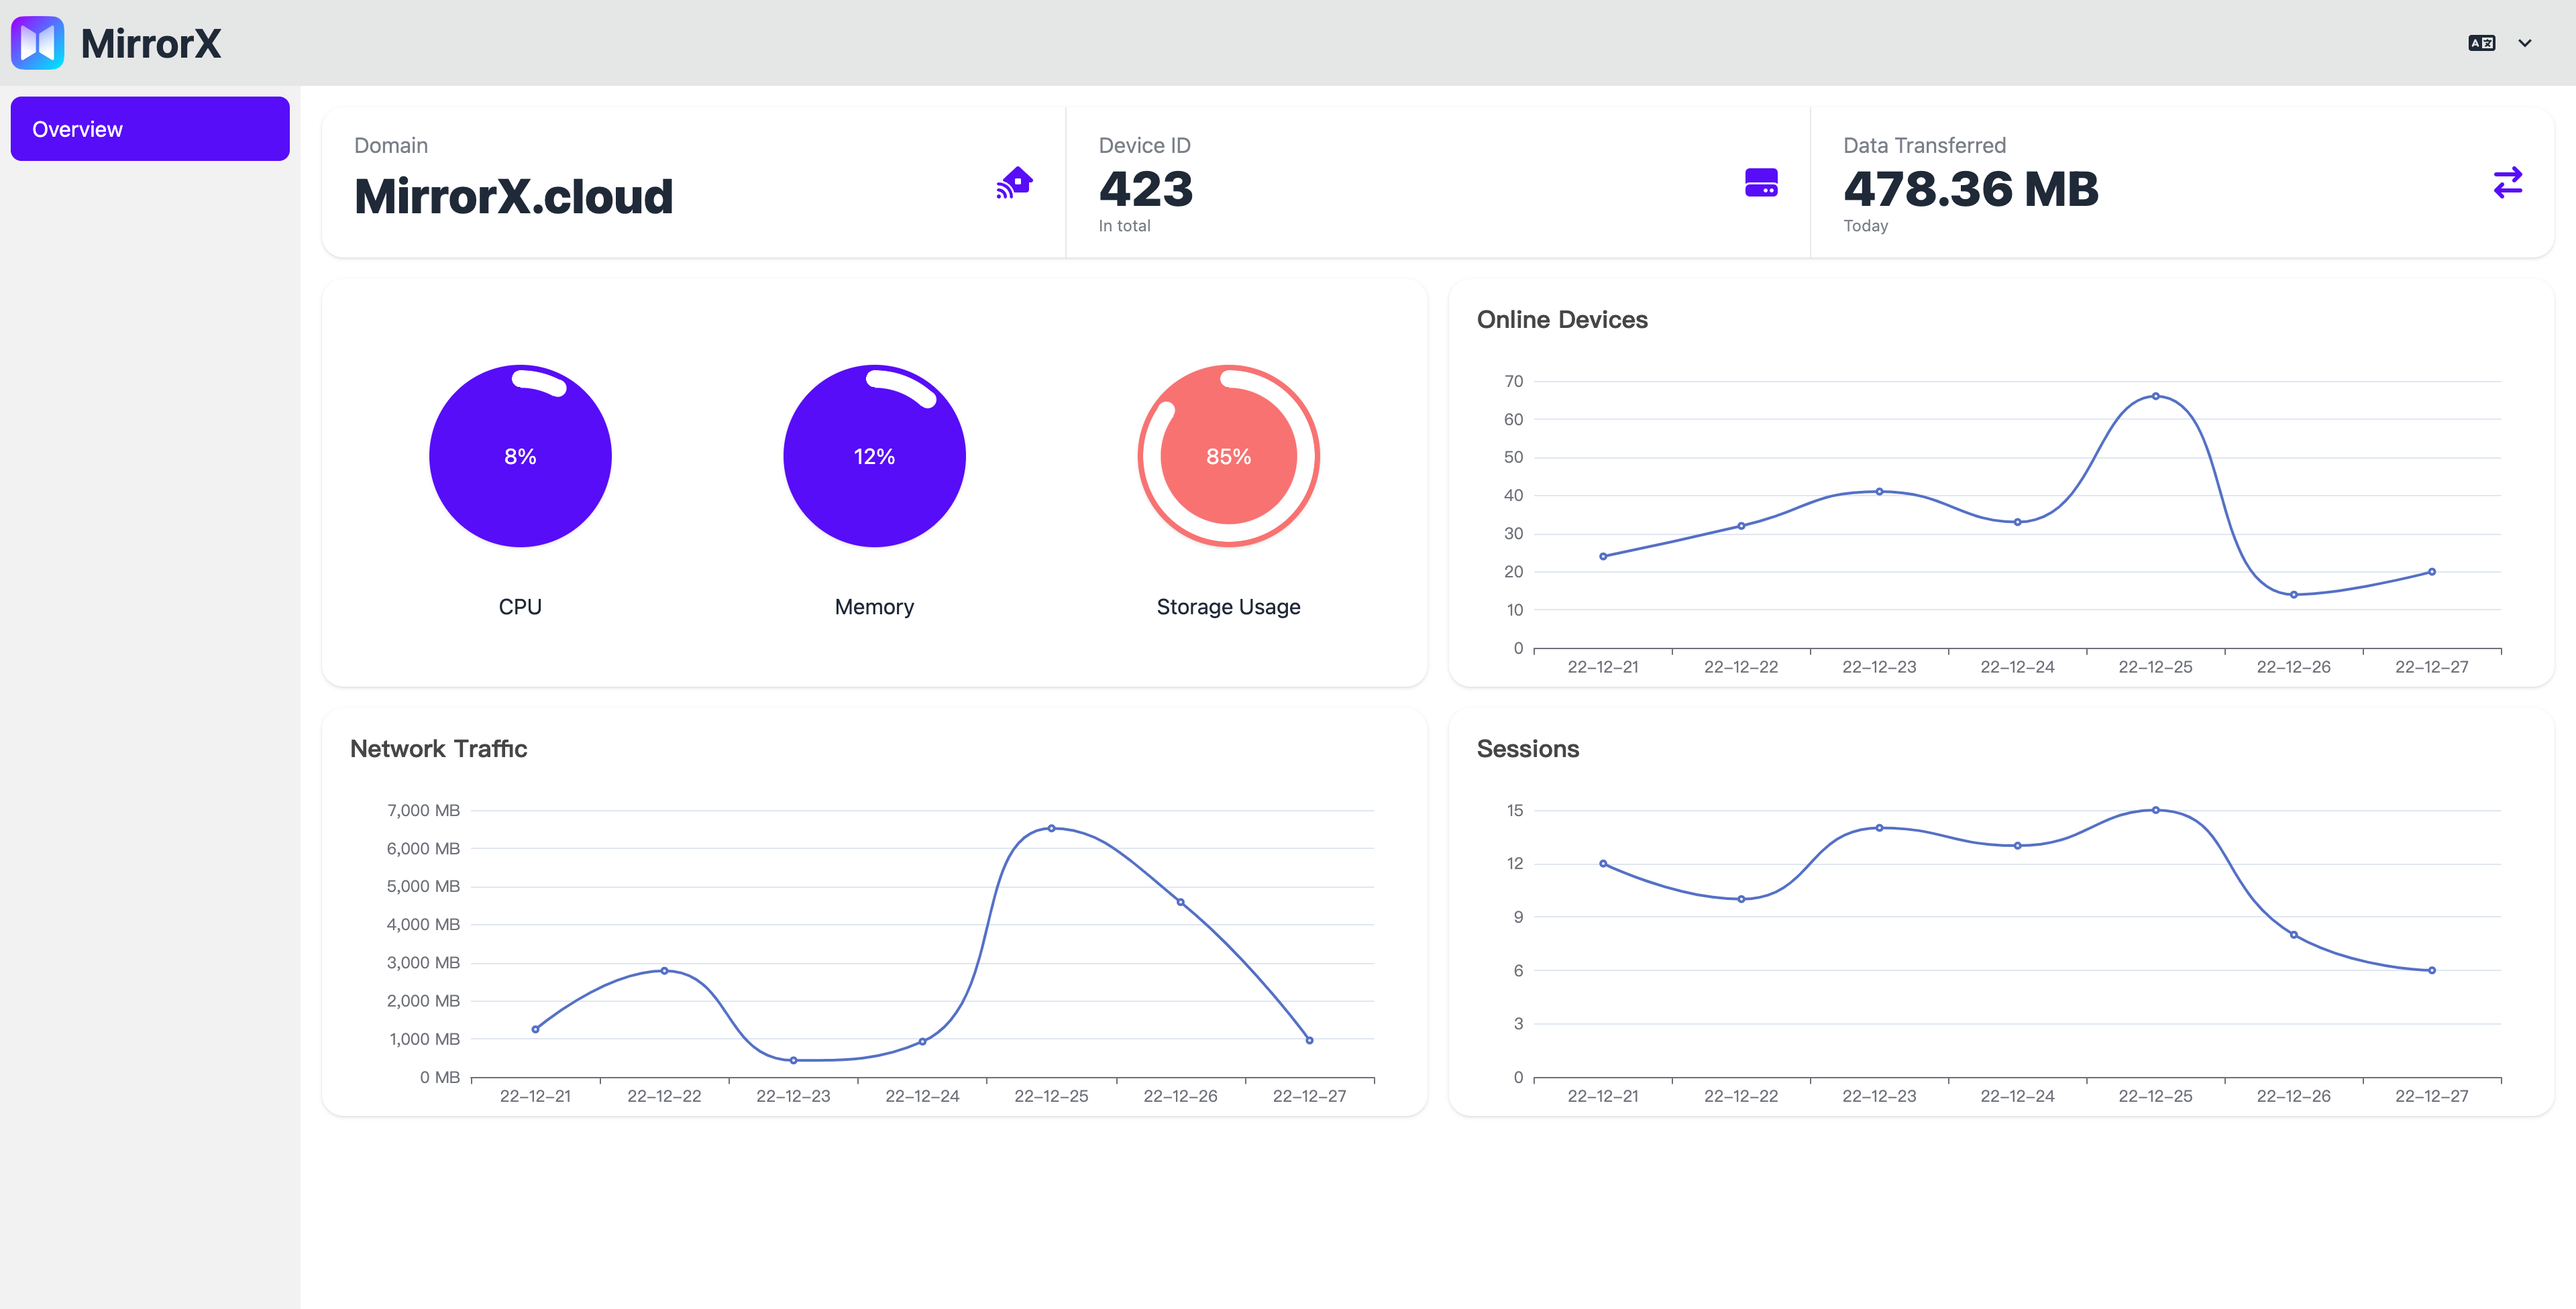
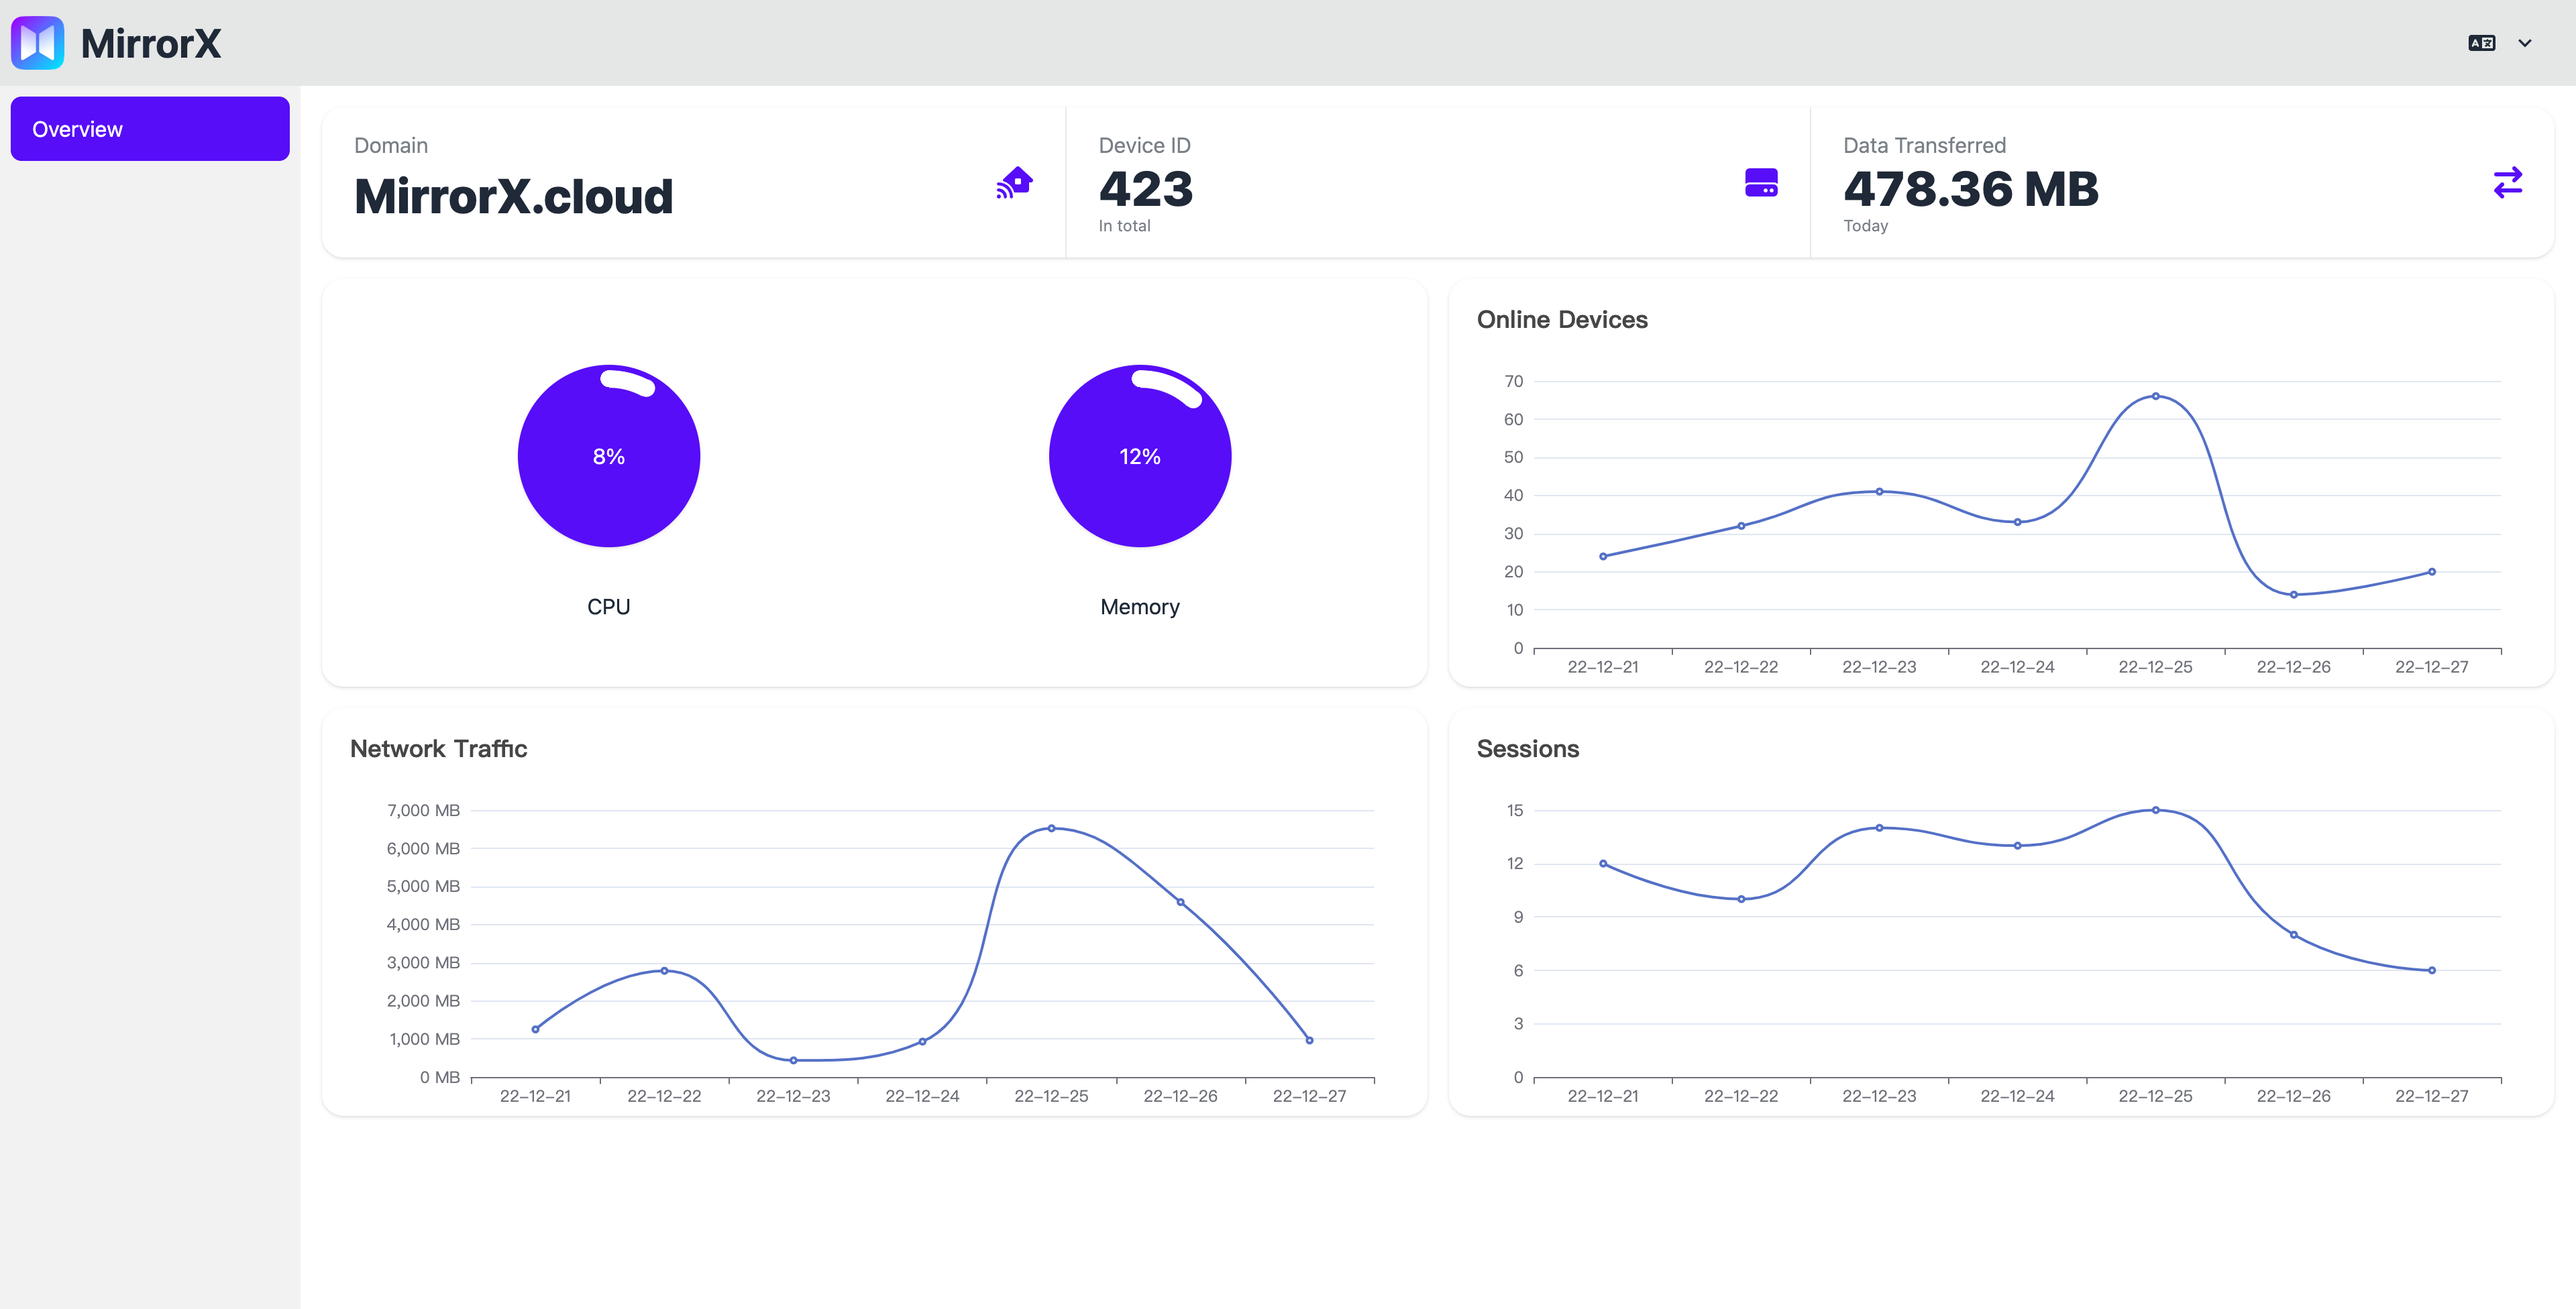
feat: simple dashboard

Changed region(s): [[0.1562, 0.2812, 0.375, 0.4688], [0.4062, 0.2812, 0.5312, 0.4688]]

diff --git a/dashboard/src/routes/overview/+page.svelte b/dashboard/src/routes/overview/+page.svelte
@@ -162,26 +162,6 @@
 				</div>
 				<div>Memory</div>
 			</div>
-
-			<!-- <div class="flex-1 flex flex-col gap-8 items-center justify-center">
-				<div
-					class="radial-progress bg-primary text-primary-content border-4 border-primary shadow"
-					style="--value:2; --size:8rem;"
-				>
-					2%
-				</div>
-				<div>Network Pressure</div>
-			</div> -->
-
-			<div class="flex-1 flex flex-col gap-8 items-center justify-center">
-				<div
-					class="radial-progress bg-error text-primary-content border-4 border-error shadow"
-					style="--value:85; --size:8rem;"
-				>
-					85%
-				</div>
-				<div>Storage Usage</div>
-			</div>
 		</div>
 
 		<div class="flex-1 flex flex-col rounded-2xl shadow px-4 pt-4">
